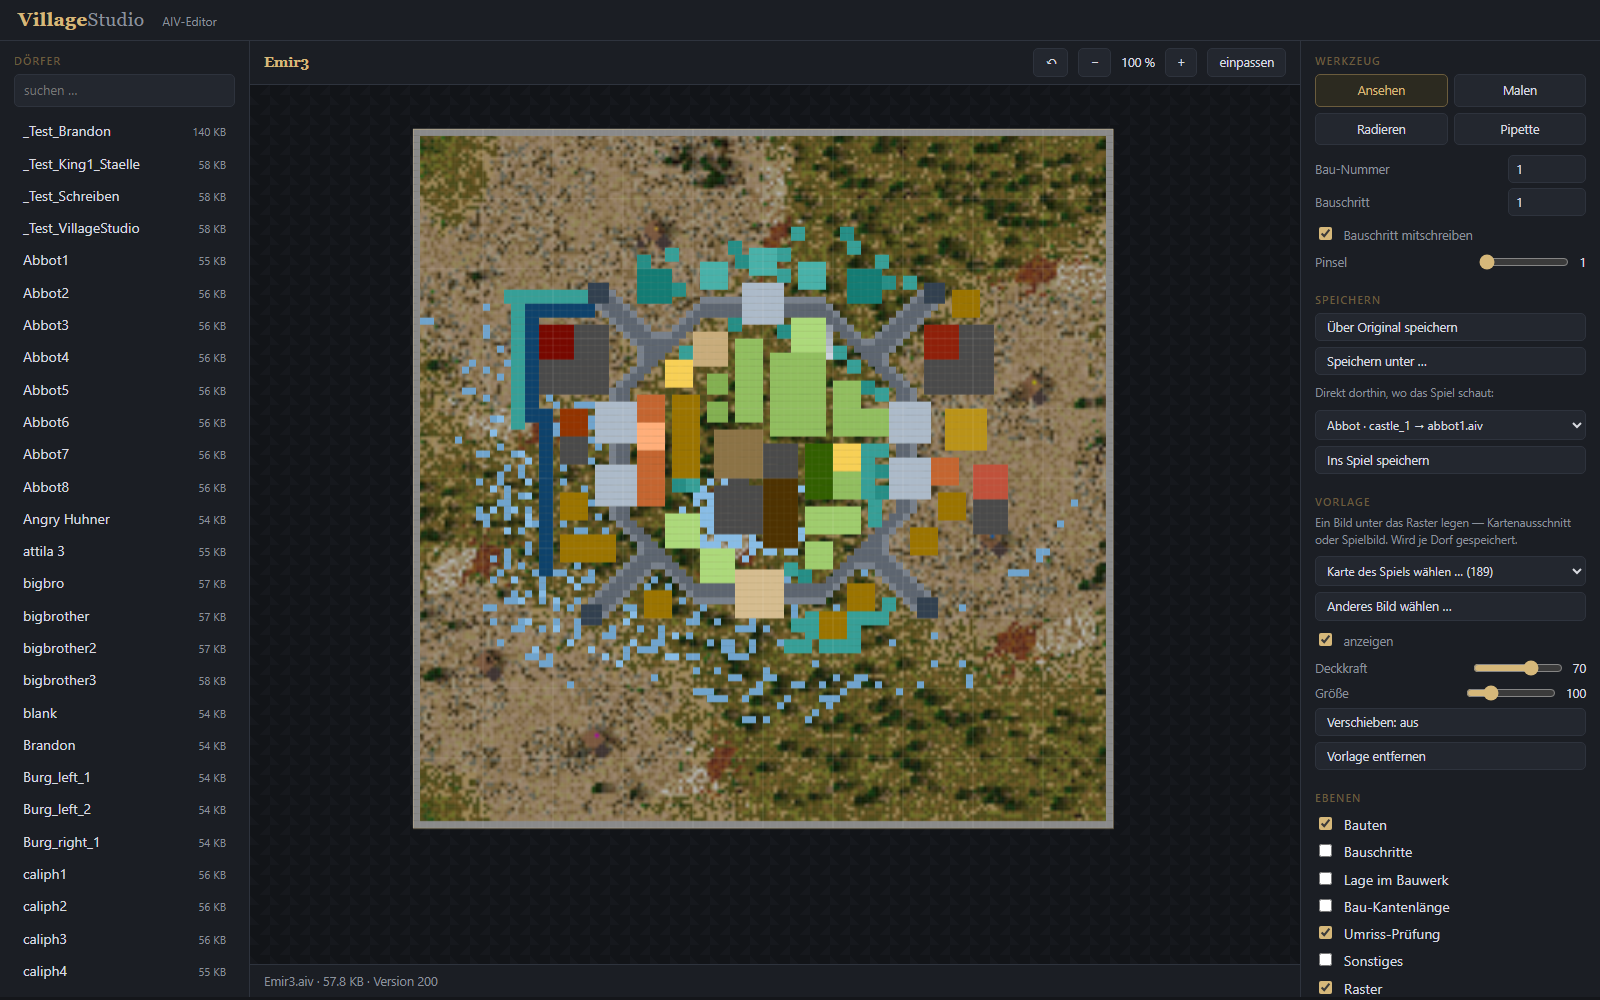
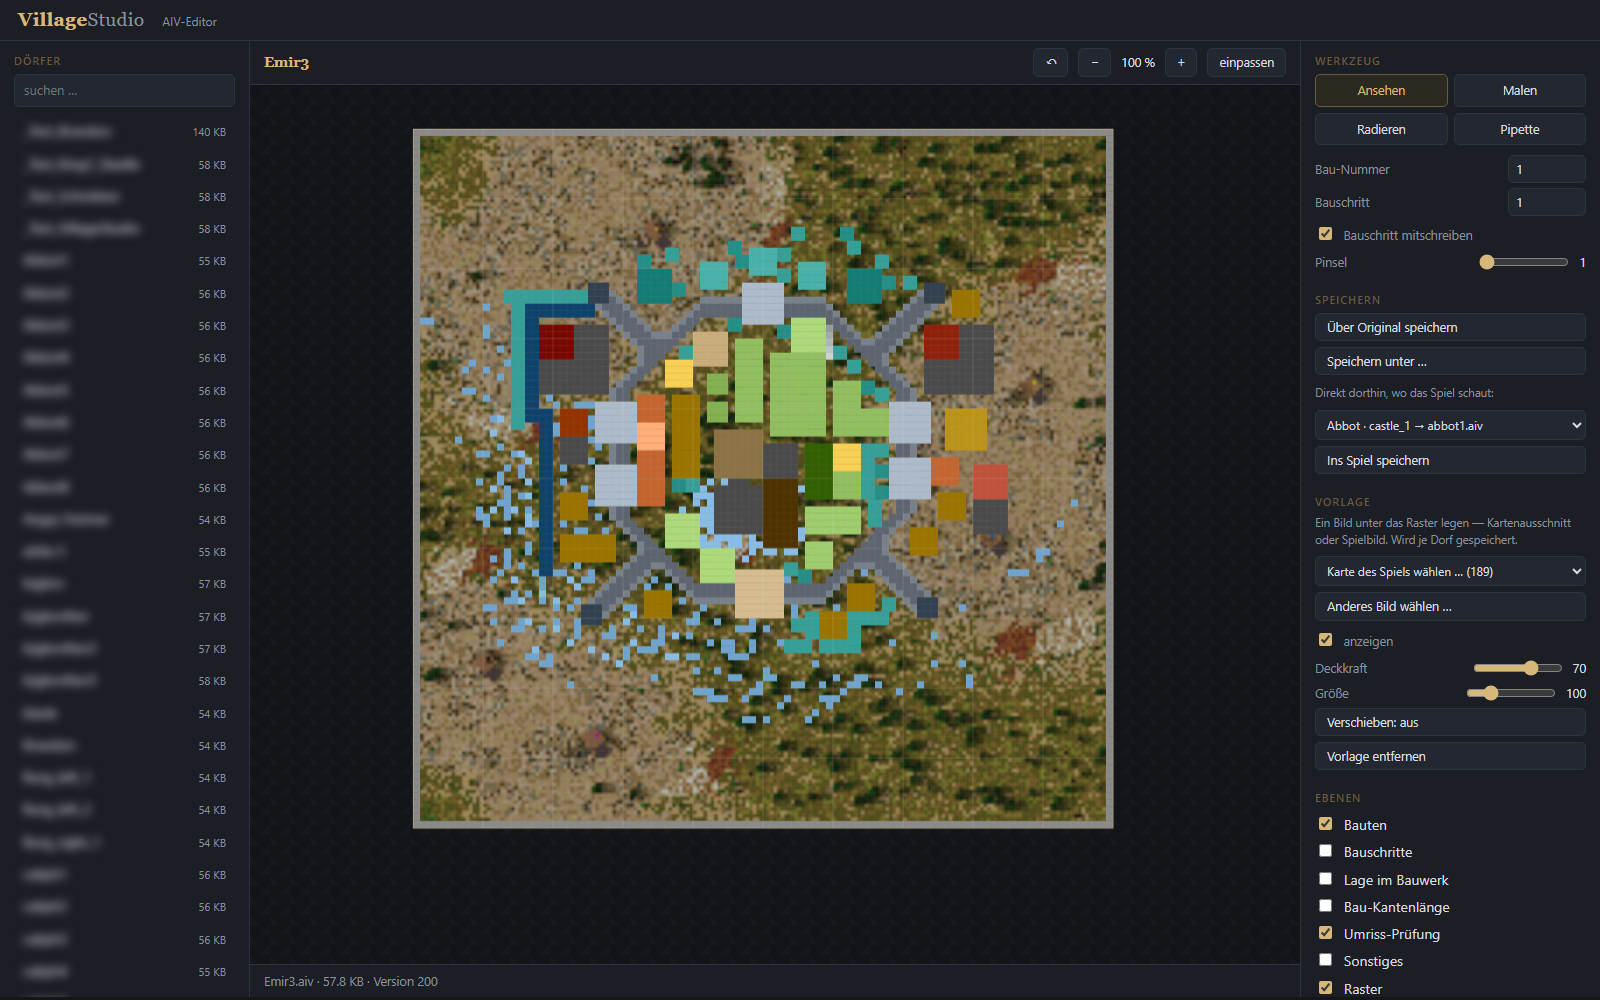
Dorfnamen im Bild unkenntlich, Schalter dafuer eingebaut
?anonym=1 zeichnet die Namen in der Dorfliste weich. Gedacht fuer
Bildschirmfotos, die man teilt - die eigenen Dateinamen gehen niemanden
etwas an. Die Groessenangaben bleiben stehen, damit die Liste als Liste
erkennbar bleibt.

Das Bild im Handbuch ist damit neu aufgenommen.

Changed region(s): [[0.0, 0.124, 0.0938, 0.992]]

diff --git a/web/app.js b/web/app.js
@@ -608,8 +608,12 @@ groesseAnpassen();
 
 // Direktlink auf ein Dorf: /?dorf=Emir3 öffnet es gleich beim Laden.
 // Nützlich zum Verlinken, und die Bildaufnahme für das Handbuch braucht es.
+const suchparam = new URLSearchParams(location.search);
+// ?anonym=1 zeichnet die Dorfnamen weich - fuer Bildschirmfotos, die man teilt
+if (suchparam.has('anonym')) $('#liste').classList.add('anonym');
+
 ladeGebaeude().then(ladeListe).then(() => {
-  const wunsch = new URLSearchParams(location.search).get('dorf');
+  const wunsch = suchparam.get('dorf');
   if (!wunsch) return;
   const d = doerfer.find(x => x.name.toLowerCase() === wunsch.toLowerCase());
   if (d) return ladeDorf(d.pfad, d.name);

diff --git a/web/style.css b/web/style.css
@@ -146,3 +146,8 @@ select.breit {
   border-radius: 5px; font: inherit; font-size: 12px;
 }
 .geaendert { color: #e0b070; font-size: 12px; }
+
+/* Fuer Bildschirmfotos: die eigenen Dorfnamen unkenntlich machen (?anonym=1).
+   Der Weichzeichner sitzt auf dem Namen, nicht auf der Zeile - so bleibt die
+   Liste als Liste erkennbar. */
+.liste.anonym li span { filter: blur(5px); user-select: none; }
